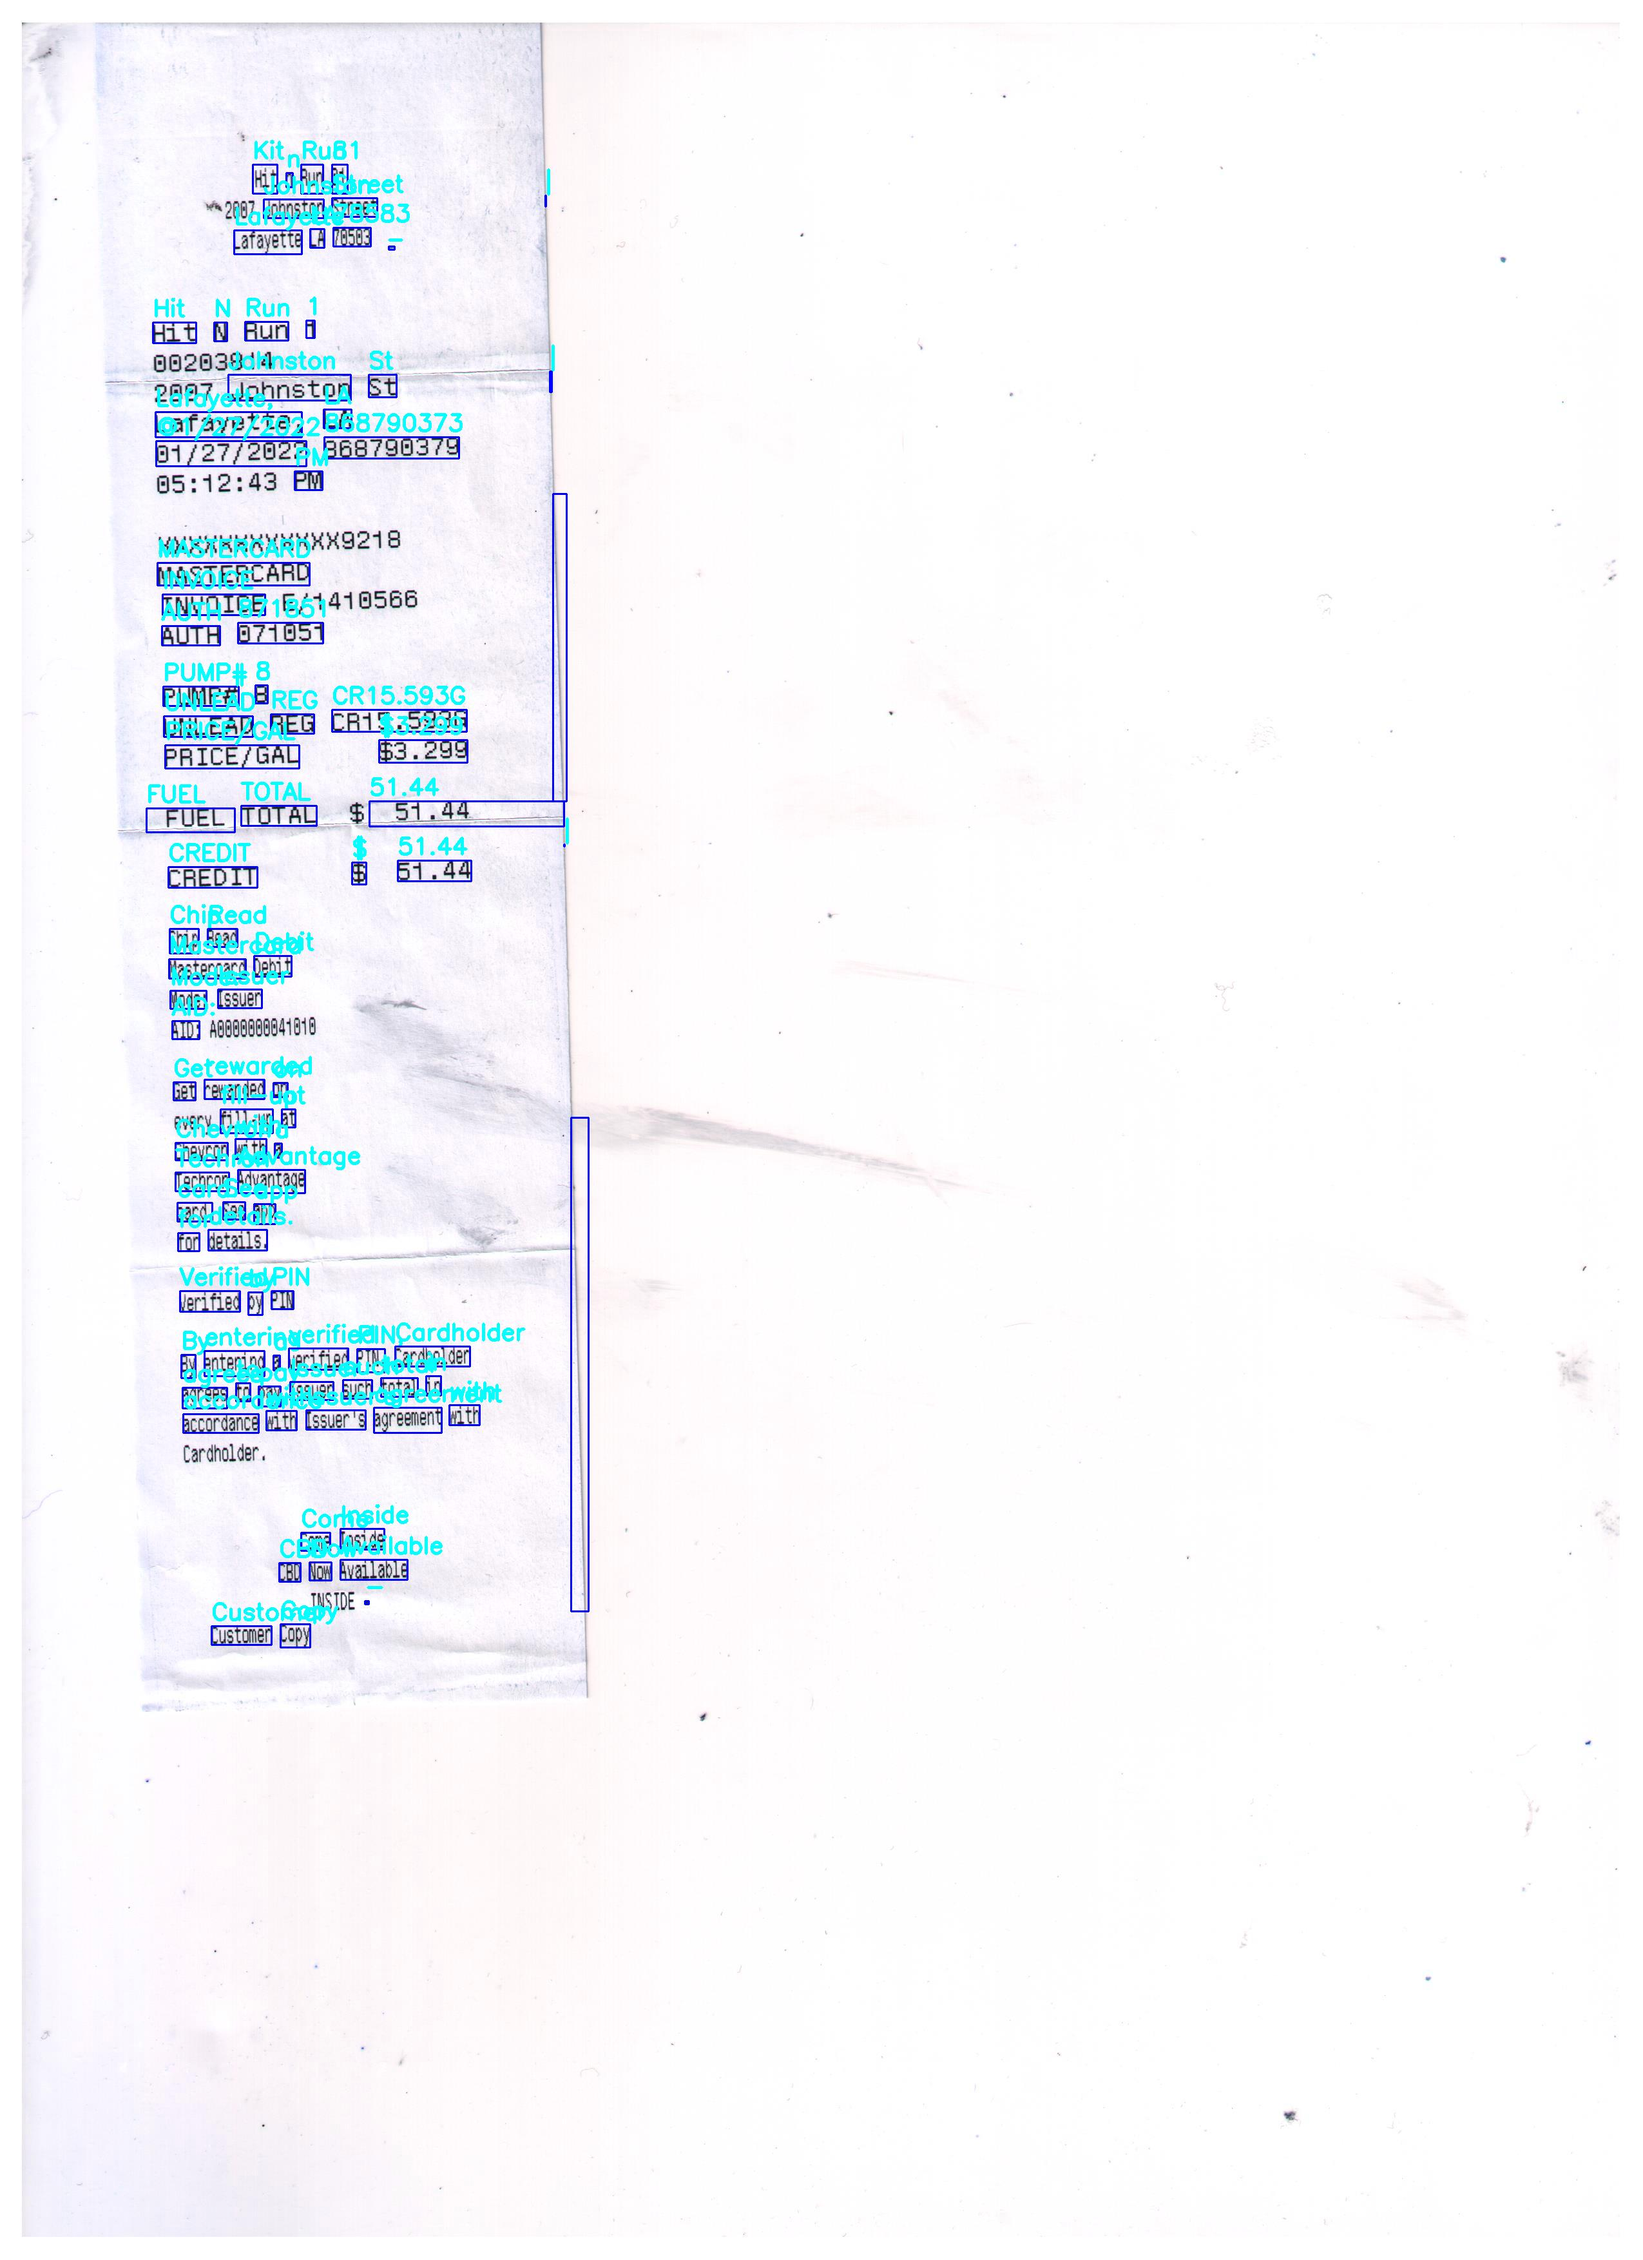
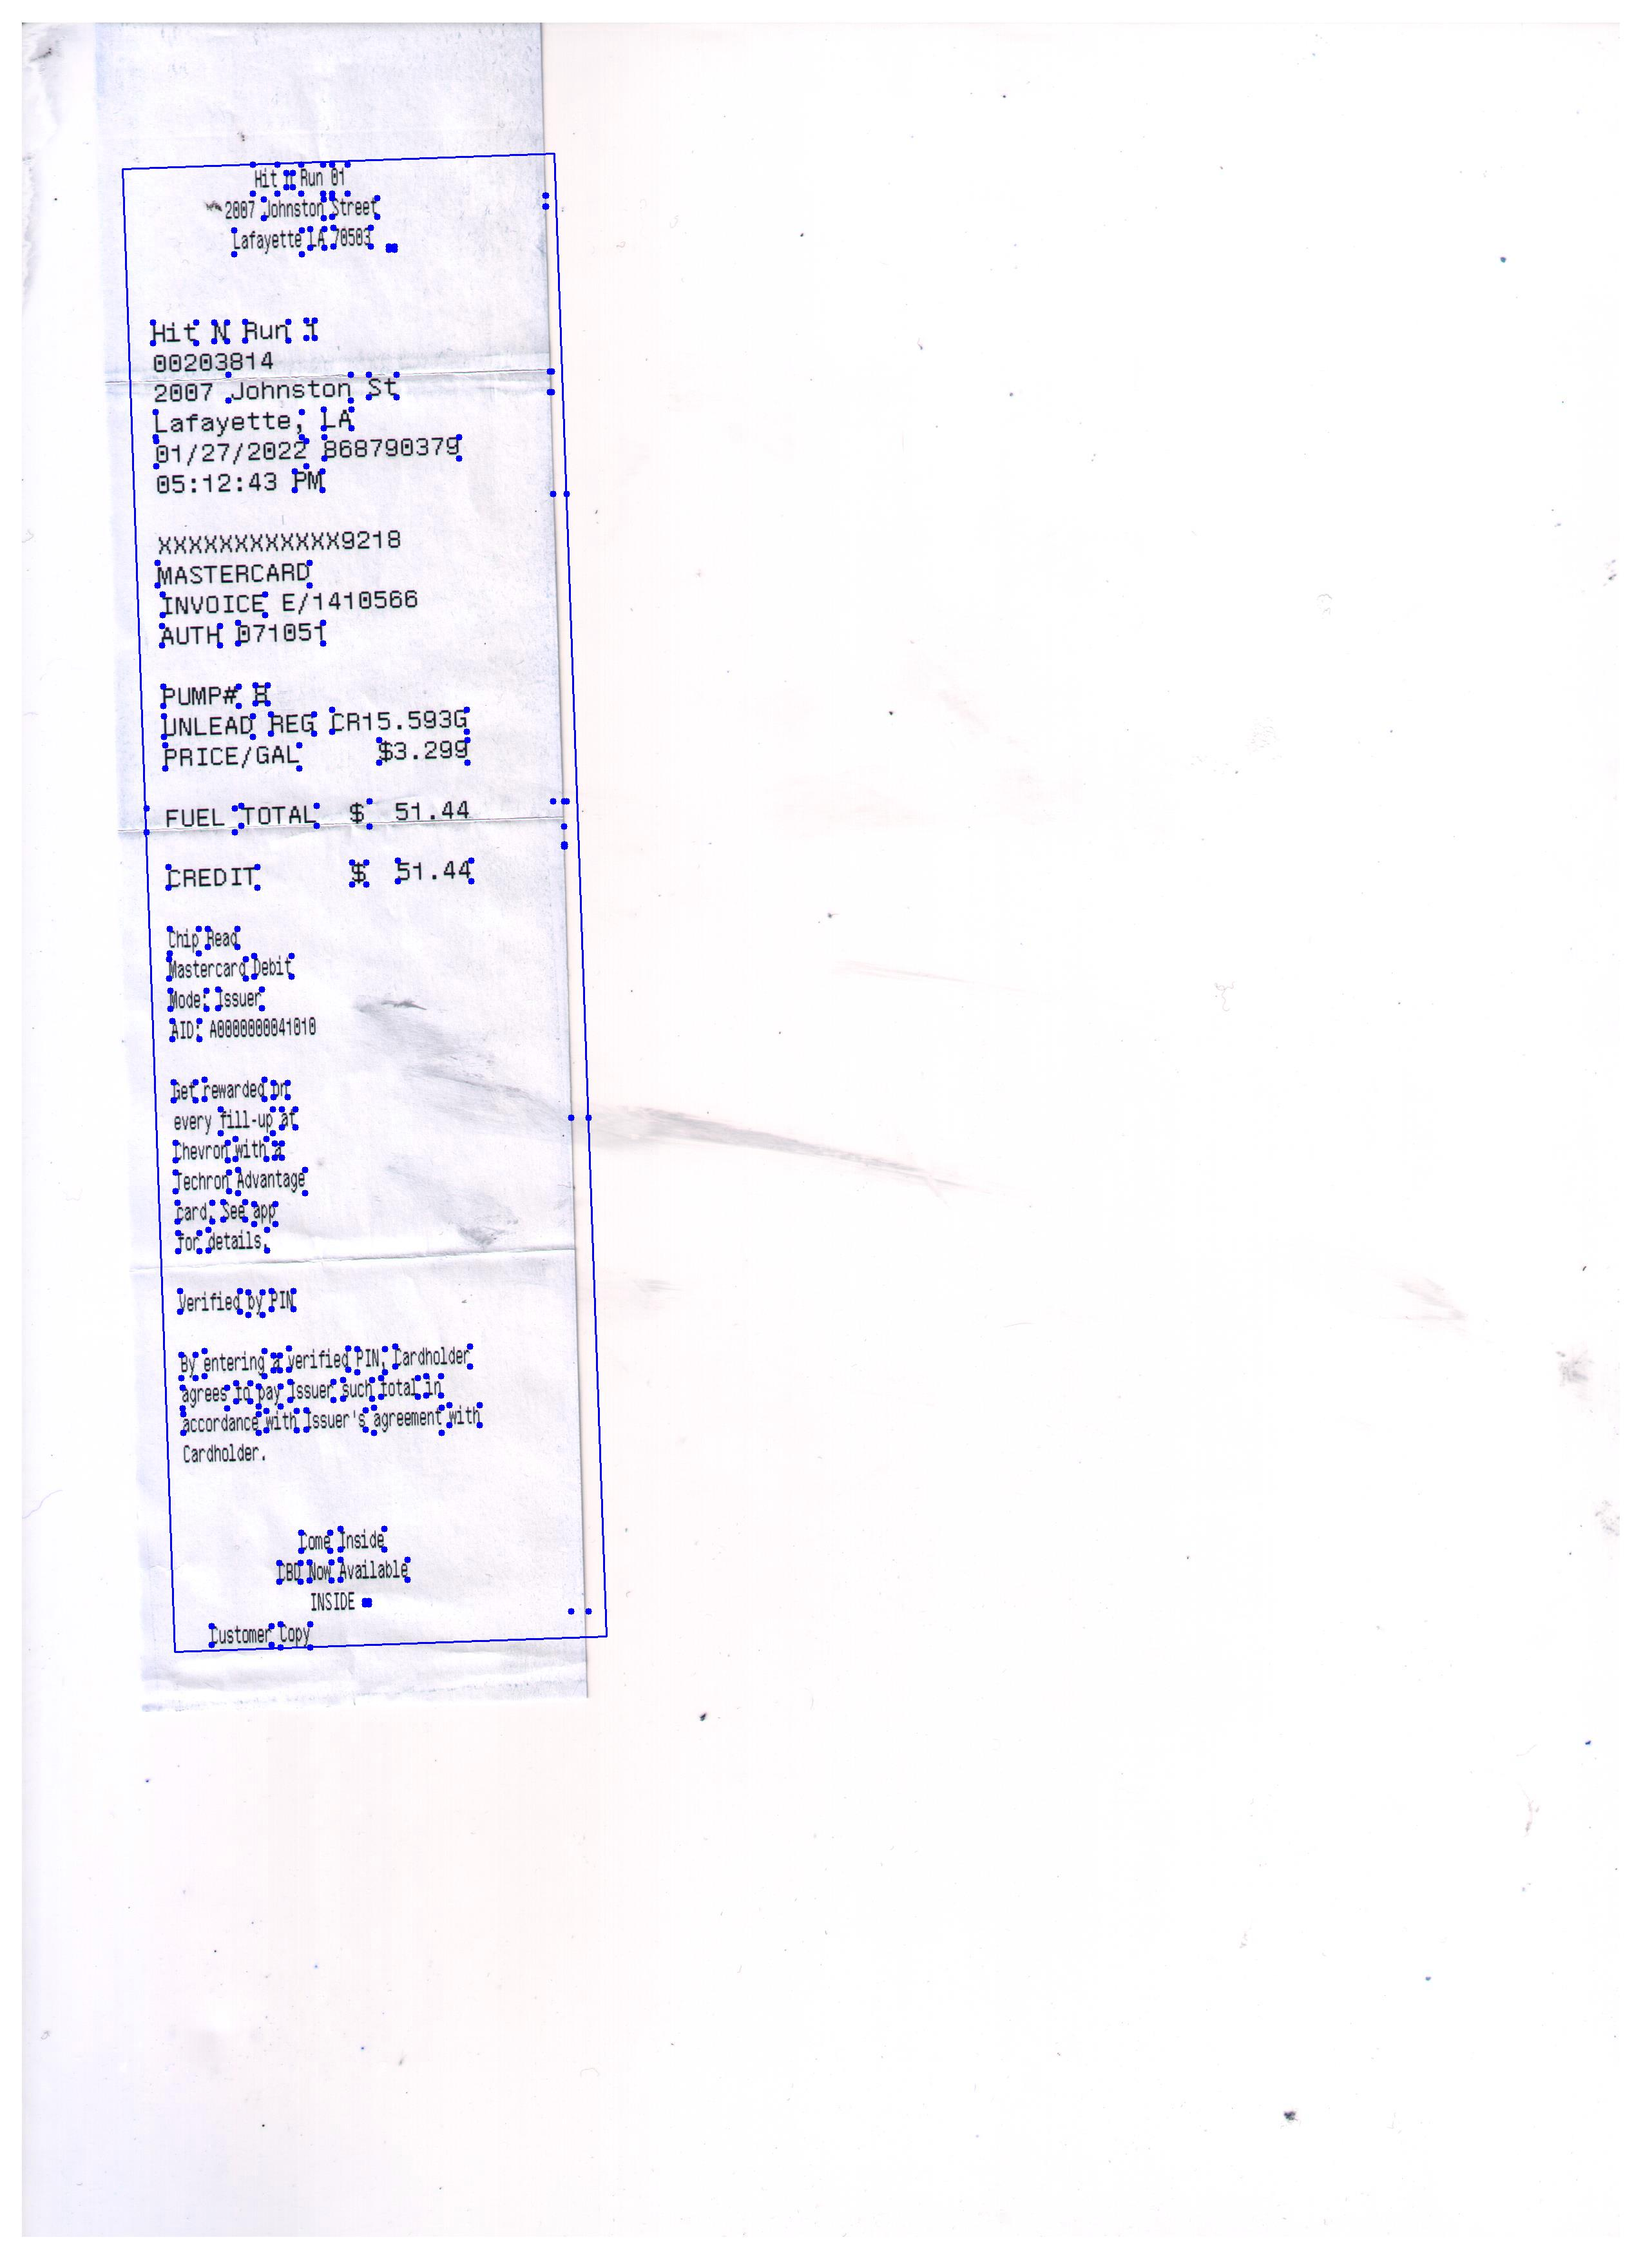
Adding Text localization for text cropping and preparation for text rotation.

diff --git a/textlocalization/textlocal.py b/textlocalization/textlocal.py
@@ -3,6 +3,7 @@ from pytesseract import*
 import argparse 
 import cv2 
 from PIL import Image 
+import numpy as np
   
 # We construct the argument parser 
 # and parse the arguments 
@@ -29,6 +30,9 @@ results = pytesseract.image_to_data(rgb, output_type=Output.DICT)
 #print (osdresults)
 # Then loop over each of the individual text 
 # localizations 
+
+textPoints=[]
+
 for i in range(0, len(results["text"])): 
 
     conf = int(results["conf"][i]) 
@@ -42,7 +46,7 @@ for i in range(0, len(results["text"])):
         y = results["top"][i] 
         w = results["width"][i] 
         h = results["height"][i] 
-      
+        
         # We will also extract the OCR text itself along 
         # with the confidence of the text localization 
         text = results["text"][i] 
@@ -59,20 +63,47 @@ for i in range(0, len(results["text"])):
         # text along with the text itself 
         text = "".join(text).strip() 
         
-        
+        '''
         cv2.rectangle(images, 
                       (x, y), 
                       (x + w, y + h), 
                       (0, 0, 255), 2) 
+        '''
+        cv2.circle(images, (x, y), 5, (0,0,255), -1) # Draw a circle
+        textPoints.append([x, y])
         
-        cv2.circle(images, (x, y), 1, (0,0,255), -1) # Draw a circle
+        cv2.circle(images, (x + w, y), 5, (0,0,255), -1) # Draw a circle
+        textPoints.append([x + w, y])
+        
+        
+        cv2.circle(images, (x, y + h), 5, (0,0,255), -1) # Draw a circle
+        textPoints.append([x, y + h])
+        
 
+        cv2.circle(images, (x + w, y + h), 5, (0,0,255), -1) # Draw a circle
+        textPoints.append([x + w, y + h])
+        
+
+        '''
         cv2.putText(images, 
                     text, 
                     (x, y - 10),  
                     cv2.FONT_HERSHEY_SIMPLEX, 
                     1.2, (0, 255, 255), 3)
-         
-          
+        ''' 
+
+textPoints = np.array(textPoints)
+rectangle = cv2.minAreaRect(textPoints)
+box = cv2.boxPoints(rectangle)
+box = np.int64(box)  # Convert to integer type
+print(rectangle)
+print(box)
+cv2.drawContours(images, [box], -1, (0, 0, 255), 2)
+##########################################################
+#Currently here
+
+
+
 # After all, we will show the output image 
 image = Image.fromarray(images).save("image.jpg")
+

diff --git a/deskewing/correct_skew.py b/deskewing/correct_skew.py
@@ -26,6 +26,7 @@ thresh = cv2.threshold(gray, 0, 255,
 # compute a rotated bounding box that contains all
 # coordinates
 coords = np.column_stack(np.where(thresh > 0))
+print(coords)
 angle = cv2.minAreaRect(coords)[-1]
 # the `cv2.minAreaRect` function returns values in the
 # range [-90, 0); as the rectangle rotates clockwise the
